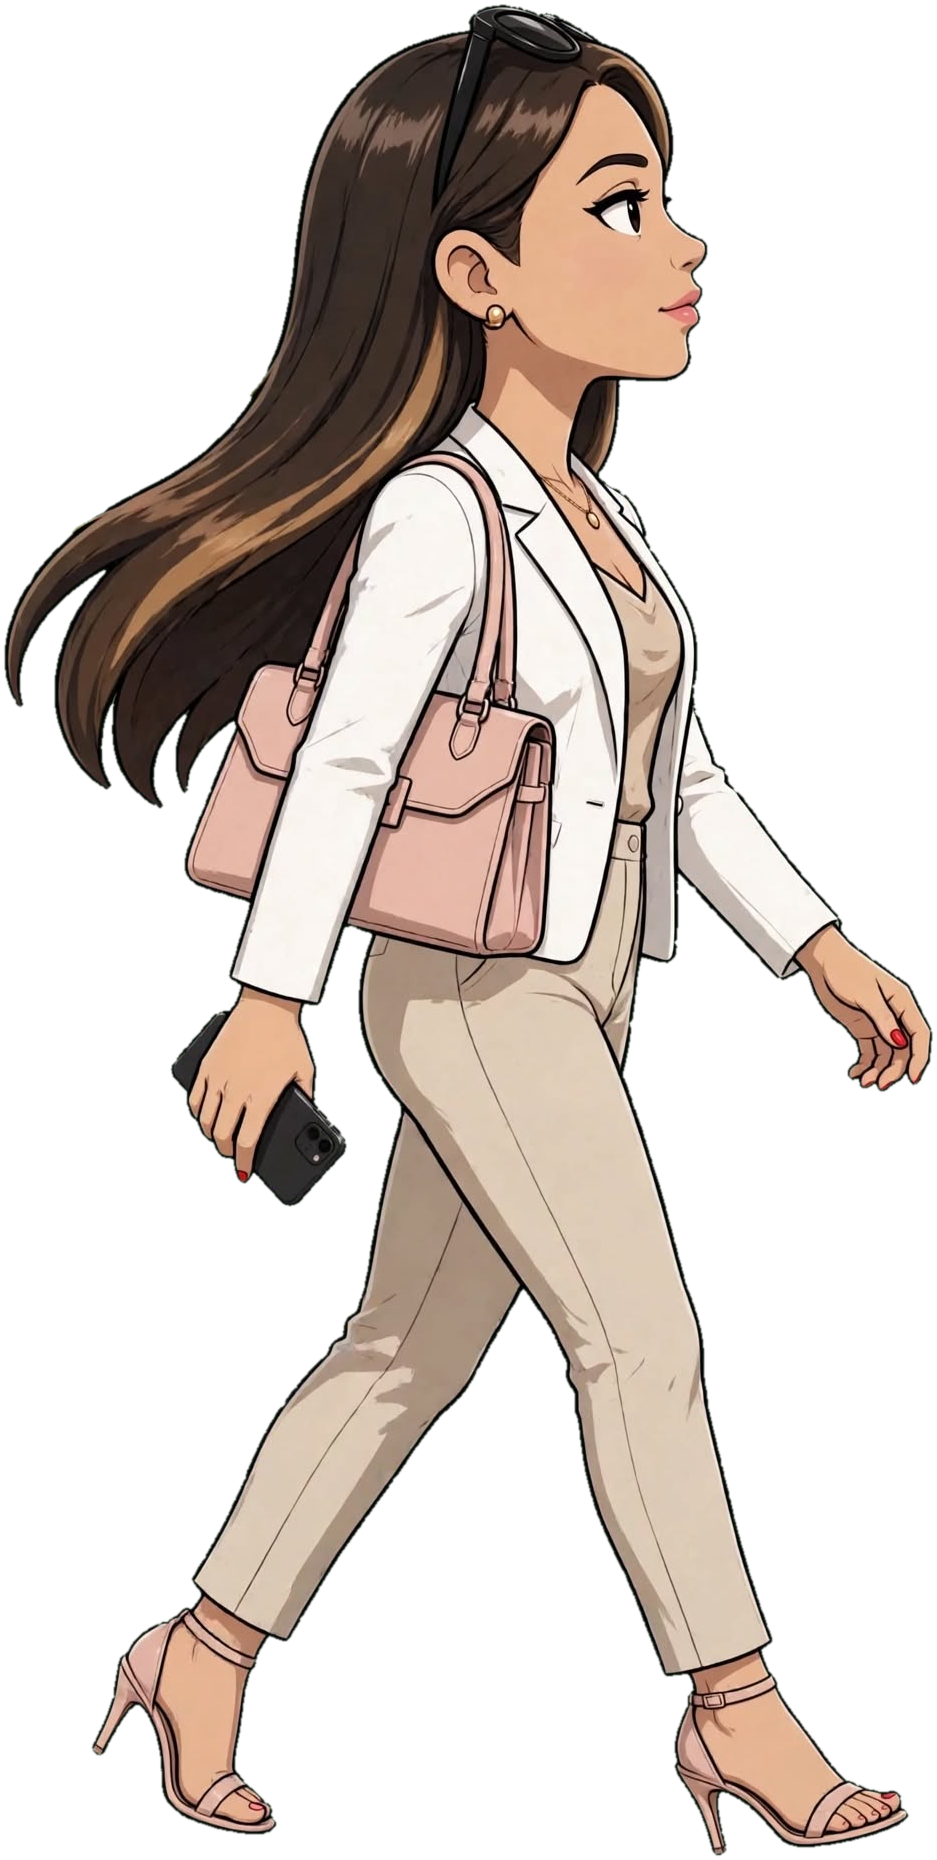
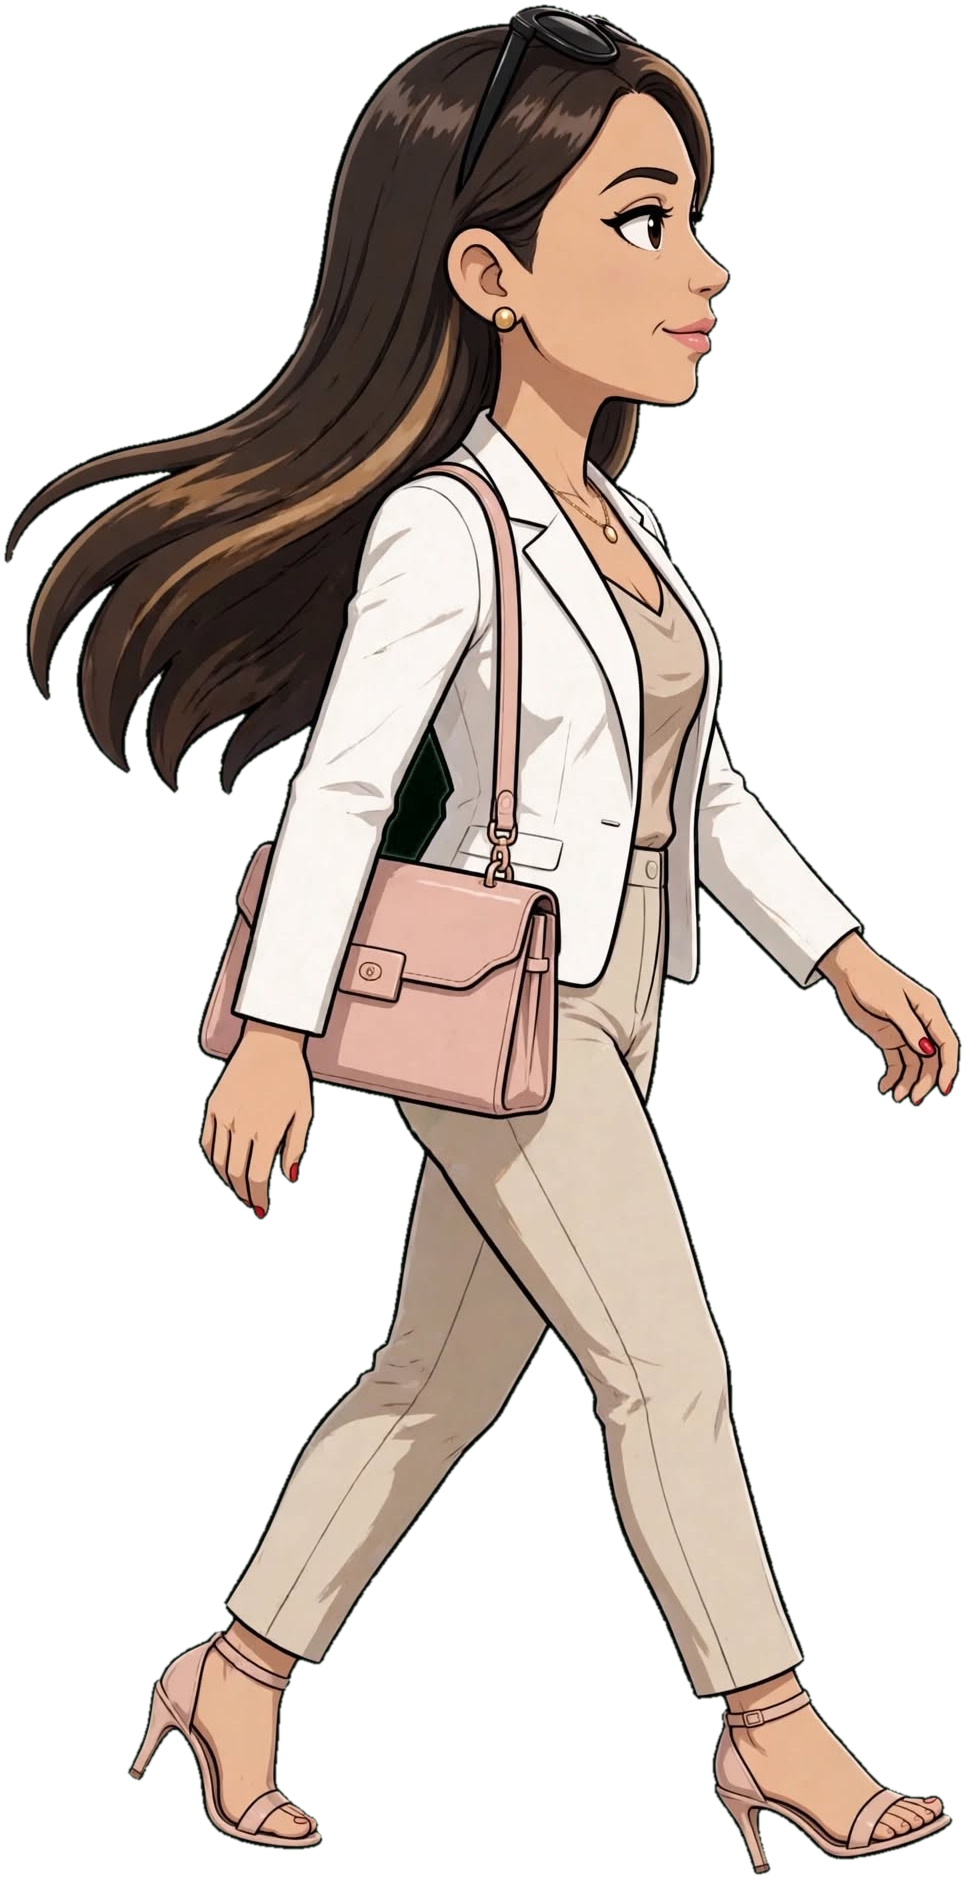
robo: atualiza a fabrica

diff --git a/render/src/motion/boneco/Turma.tsx b/render/src/motion/boneco/Turma.tsx
@@ -156,21 +156,26 @@ export const Sombra: React.FC<{ x: number; y: number; larg: number; f?: number }
 );
 
 // andar: a pose de perfil a andar (R3), com o passo a subir e descer, o corpo a inclinar e a sombra a respirar
-export const Andando: React.FC<{ pid: Pid; de: number; ate: number; y: number; alt: number; t: number; dur: number; passo?: number; luz?: Luz }> = ({ pid, de, ate, y, alt, t, dur, passo = 1.9, luz }) => {
+export const Andando: React.FC<{ pid: Pid; de: number; ate: number; y: number; alt: number; t: number; dur: number; passo?: number; luz?: Luz; oculosNaCabeca?: boolean }> = ({ pid, de, ate, y, alt, t, dur, passo = 1.9, luz, oculosNaCabeca }) => {
   // o passo em 2 desenhos (como no desenho animado classico): a passada (R3) em baixo e as pernas juntas (R2) no alto
   const k = mola(t, 2.6 / dur * 3, 1); const x = de + (ate - de) * k; const vel = cl(1 - k * 1.03) ** 0.5;
   const fase = t * passo * Math.PI * 2;
   const alto = Math.abs(Math.sin(fase)) > 0.72 && vel > 0.15;
   // parado fica de perfil: a pose de frente (R1) da Valeria tem os oculos na cabeca e o andar no rosto (pulo de continuidade)
   const parou = false;
-  const cod = parou ? "R1" : vel < 0.15 ? "R2" : alto ? "R2" : "R3";
+  // oculos na cabeca (Valeria, 19/11): R4 a passada, R5 a passada curta
+  const [JUN, PAS] = oculosNaCabeca ? ["R5", "R4"] : ["R2", "R3"];
+  const cod = parou ? "R1" : vel < 0.15 ? JUN : alto ? JUN : PAS;
   const q = info(pid, cod); const wd = q.tam[0] * (alt / q.tam[1]);
+  // o nariz no mesmo x nos 2 desenhos (medido: distancia do nariz ao centro, em fracao da altura), para o corpo nao pular de lado
+  const NARIZ: Record<string, number> = { R4: 0.1224, R5: 0.1003 };
+  const ajX = oculosNaCabeca ? (NARIZ[PAS] - (NARIZ[cod] ?? NARIZ[PAS])) * alt * (ate < de ? -1 : 1) : 0;
   const pulo = -Math.abs(Math.sin(fase)) * 14 * vel, inc = 1.4 * Math.sin(fase) * vel, amassa = 1 - 0.018 * Math.cos(fase * 2) * vel;
   const esq = ate < de && !parou;
   return (
     <>
-      <Sombra x={x} y={y} larg={info(pid, "R3").tam[0] * (alt / info(pid, "R3").tam[1]) * 0.7} f={1 - 0.12 * (-pulo / 14)} />
-      <div style={{ position: "absolute", left: x - wd / 2, top: y - alt + pulo, width: wd, height: alt, transformOrigin: "50% 100%", transform: `rotate(${esq ? -inc : inc}deg) scale(${esq ? -1 : 1}, ${amassa})` }}>
+      <Sombra x={x} y={y} larg={info(pid, PAS).tam[0] * (alt / info(pid, PAS).tam[1]) * 0.7} f={1 - 0.12 * (-pulo / 14)} />
+      <div style={{ position: "absolute", left: x - wd / 2 + ajX, top: y - alt + pulo, width: wd, height: alt, transformOrigin: "50% 100%", transform: `rotate(${esq ? -inc : inc}deg) scale(${esq ? -1 : 1}, ${amassa})` }}>
         <Img src={staticFile(`boneco/turma/${pid}/${cod}.png`)} style={{ width: "100%", height: "100%", filter: filtroLuz(luz) }} />
         {luz && luz.tipo !== "dia" && <CorDaLuz luz={{ ...luz, lado: ((luz.lado ?? 1) * (esq ? -1 : 1)) as 1 | -1 }} src={staticFile(`boneco/turma/${pid}/${cod}.png`)} />}
       </div>

diff --git a/render/src/motion/boneco/ProvaCenaNoite.tsx b/render/src/motion/boneco/ProvaCenaNoite.tsx
@@ -3,10 +3,10 @@
 // o Tião, perto dela, bem aceso; a Valéria, mais longe, mais fraco. O fundo de noite é a rua da SUV escurecida (o de verdade vem do meta.ai).
 import React from "react";
 import { AbsoluteFill, Img, Sequence, staticFile, useCurrentFrame } from "remotion";
-import { Pose, Sombra, Balao } from "./Turma";
+import { Pose, Sombra, Balao, Andando } from "./Turma";
 
 const FPS = 30;
-export const FIM_CENA_NOITE = 10;
+export const FIM_CENA_NOITE = 10.6;
 const Fundo: React.FC<{ t: number; zoom?: number; fx?: number }> = ({ t, zoom = 1, fx = 50 }) => (
   <AbsoluteFill style={{ overflow: "hidden", background: "#0b1020" }}>
     <Img src={staticFile("piloto-motion/suv-casa.jpg")} style={{ width: "100%", height: "100%", objectFit: "cover", transformOrigin: `${fx}% 70%`, transform: `scale(${zoom * (1.02 + 0.03 * Math.min(1, t / 6))})`, filter: "brightness(0.36) saturate(0.55) hue-rotate(195deg)" + (zoom > 1 ? " blur(3px)" : "") }} />
@@ -23,8 +23,9 @@ const Chega: React.FC = () => {
     <AbsoluteFill>
       <Fundo t={t} />
       {/* parada ao lado do carro, com os óculos na cabeça (a pose de andar tem os óculos no rosto: pularia de um plano para o outro) */}
-      <Sombra x={1010} y={1010} larg={240} />
-      <Pose pid="valeria" cod="R1" x={1010} y={1015} alt={600} t={t} entra={0.3} luz={{ tipo: "varanda", lado: 1, forca: 0.55 }} />
+      {/* chega andando de perfil com os oculos na cabeca (R4/R5) e para de frente (R1), oculos sempre no mesmo lugar */}
+      {t < 2.6 ? <Andando pid="valeria" de={-250} ate={1010} y={1015} alt={600} t={t} dur={2.6} oculosNaCabeca luz={{ tipo: "varanda", lado: 1, forca: 0.55 }} />
+        : <><Sombra x={1010} y={1010} larg={240} /><Pose pid="valeria" cod="R1" x={1010} y={1015} alt={600} t={t} entra={2.6} luz={{ tipo: "varanda", lado: 1, forca: 0.55 }} /></>}
     </AbsoluteFill>
   );
 };
@@ -45,7 +46,7 @@ const Pede: React.FC = () => {
 
 export const ProvaCenaNoite: React.FC = () => (
   <AbsoluteFill style={{ background: "#000" }}>
-    <Sequence durationInFrames={Math.round(3.6 * FPS)}><Chega /></Sequence>
-    <Sequence from={Math.round(3.6 * FPS)}><Pede /></Sequence>
+    <Sequence durationInFrames={Math.round(4.2 * FPS)}><Chega /></Sequence>
+    <Sequence from={Math.round(4.2 * FPS)}><Pede /></Sequence>
   </AbsoluteFill>
 );
